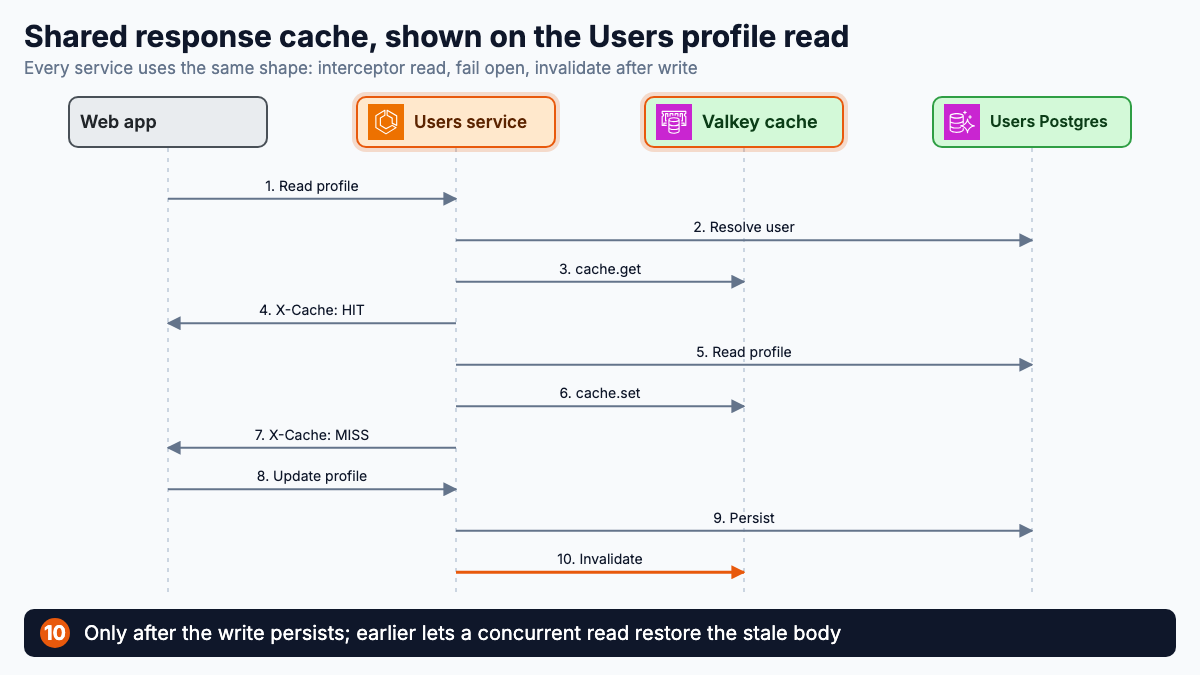
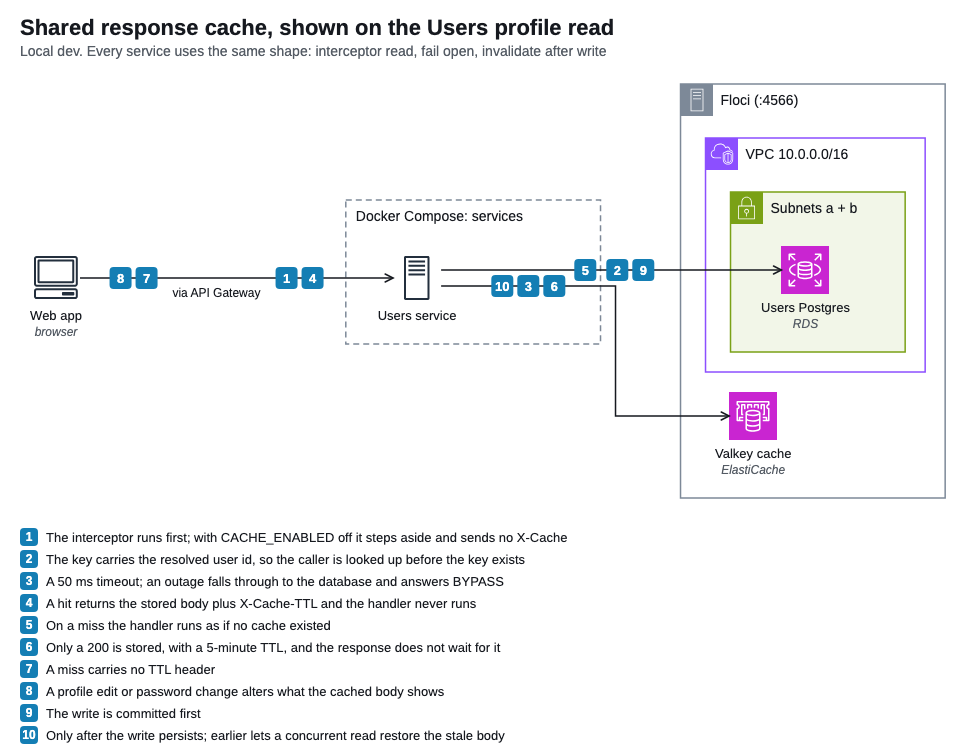
docs(orders): restyle shopping flow diagrams in the AWS reference style
Plan: docs/superpowers/plans/2026-10-07-aws-style-diagrams.md

diff --git a/diagrams/src/data/flows/checkout-address-geocoding-proxy.ts b/diagrams/src/data/flows/checkout-address-geocoding-proxy.ts
@@ -1,26 +1,44 @@
-import type { FlowData } from "../../schema";
+import type { z } from "zod";
+import type { AwsDiagramData } from "../../aws/schema";
 
-export const checkoutAddressGeocodingProxy: FlowData = {
+// CONTRACT: drawn as it runs in local dev: the web nginx, OpenObserve and Users in Docker Compose,
+// API Gateway on Floci, Geoapify on the internet. Replies reuse the request edges. Sources:
+// apps/web/nginx.conf, docker-compose.yml (web logging driver), apps/web/src/app/core/api/geocode-api.ts.
+export const checkoutAddressGeocodingProxy: z.input<typeof AwsDiagramData> = {
   title: "Street autocomplete through a same-origin proxy",
-  subtitle: "The Geoapify key lives in nginx; the browser never sees it or sends a token there",
-  actors: [
-    { id: "web", label: "Web app", kind: "external" },
-    { id: "nginx", label: "Web nginx", kind: "edge" },
-    { id: "geoapify", label: "Geoapify", kind: "external" },
-    { id: "o2", label: "OpenObserve", kind: "data" },
-    { id: "gateway", label: "API Gateway", kind: "edge", aws: "api-gateway" },
-    { id: "users", label: "Users service", kind: "compute", aws: "ecs" },
+  subtitle: "Local dev. The Geoapify key lives in nginx; the browser never sees it or sends a token there",
+  direction: "RIGHT",
+  groups: [
+    { id: "compose-web", kind: "generic", label: "Docker Compose: web" },
+    { id: "compose-o2", kind: "generic", label: "Docker Compose: observability" },
+    { id: "floci", kind: "local-floci", label: "Floci (:4566)" },
+    { id: "compose", kind: "generic", label: "Docker Compose: services" },
+  ],
+  nodes: [
+    { id: "web", label: "Web app", sublabel: "browser", icon: "client" },
+    { id: "nginx", label: "Web nginx", icon: "server", group: "compose-web" },
+    { id: "geoapify", label: "Geoapify", icon: "internet" },
+    { id: "o2", label: "OpenObserve", icon: "server", group: "compose-o2" },
+    { id: "gateway", label: "API Gateway", sublabel: "JWT authorizer", icon: "api-gateway", group: "floci" },
+    { id: "users", label: "Users service", icon: "server", group: "compose" },
+  ],
+  edges: [
+    { id: "web-nginx", from: "web", to: "nginx", label: "same-origin" },
+    { id: "nginx-geoapify", from: "nginx", to: "geoapify", label: "+ API key" },
+    { id: "nginx-o2", from: "nginx", to: "o2", label: "access log via fluentd", async: true },
+    { id: "nginx-gateway", from: "nginx", to: "gateway", label: "API path" },
+    { id: "gateway-users", from: "gateway", to: "users" },
   ],
   steps: [
-    { from: "web", to: "nginx", label: "Street query", caption: "After a 300 ms debounce and 3+ characters, a same-origin call with no bearer token" },
-    { from: "nginx", to: "web", label: "503 disabled", caption: "If the key is unset, nginx answers 503 itself rather than burn free-tier quota" },
-    { from: "nginx", to: "geoapify", label: "Autocomplete", caption: "nginx appends the key and strips Authorization and Cookie before leaving the host" },
-    { from: "geoapify", to: "nginx", label: "Suggestions", caption: "OpenStreetMap streets; Santo Domingo results carry no house numbers" },
-    { from: "nginx", to: "o2", label: "Access log", caption: "The only logged location, so the free-tier call count is a web-geocode query", async: true },
-    { from: "nginx", to: "web", label: "Suggestions", caption: "Entries without a street are dropped; any failure degrades to an empty list" },
-    { from: "web", to: "nginx", label: "Save address", caption: "The buyer picks a street, types the house number and saves" },
-    { from: "nginx", to: "gateway", label: "Profile update", caption: "The same nginx proxies the API path to the gateway, where the JWT authorizer runs" },
-    { from: "gateway", to: "users", label: "Update profile", caption: "Users stores the address on the buyer's profile" },
-    { from: "users", to: "web", label: "Profile", caption: "The returned profile replaces the session user and re-renders the address card" },
+    { edges: ["web-nginx"], caption: "After a 300 ms debounce and 3+ characters, a same-origin call with no bearer token" },
+    { edges: ["web-nginx"], caption: "If the key is unset, nginx answers 503 itself rather than burn free-tier quota" },
+    { edges: ["nginx-geoapify"], caption: "nginx appends the key and strips Authorization and Cookie before leaving the host" },
+    { edges: ["nginx-geoapify"], caption: "OpenStreetMap streets; Santo Domingo results carry no house numbers" },
+    { edges: ["nginx-o2"], caption: "The only logged location, so the free-tier call count is a web-geocode query" },
+    { edges: ["web-nginx"], caption: "Entries without a street are dropped; any failure degrades to an empty list" },
+    { edges: ["web-nginx"], caption: "The buyer picks a street, types the house number and saves" },
+    { edges: ["nginx-gateway"], caption: "The same nginx proxies the API path to the gateway, where the JWT authorizer runs" },
+    { edges: ["gateway-users"], caption: "Users stores the address on the buyer's profile" },
+    { edges: ["gateway-users", "nginx-gateway", "web-nginx"], caption: "The returned profile replaces the session user and re-renders the address card" },
   ],
 };

diff --git a/diagrams/src/data/flows/orders-catalogue-cart.ts b/diagrams/src/data/flows/orders-catalogue-cart.ts
@@ -1,25 +1,43 @@
-import type { FlowData } from "../../schema";
+import type { z } from "zod";
+import type { AwsDiagramData } from "../../aws/schema";
 
-export const ordersCatalogueCart: FlowData = {
+// CONTRACT: drawn as it runs in local dev: Orders and Users in Docker Compose, ElastiCache on Floci
+// outside the VPC (no subnet group), the Orders DB (RDS MySQL) in module.networking's subnets.
+// Sources: services/orders/src/Orders.Api/Endpoints/{Cart,Product}Endpoints.cs,
+// services/orders/src/Orders.Infrastructure/{Carts,Caching}, infra/modules/{networking,redis}.
+export const ordersCatalogueCart: z.input<typeof AwsDiagramData> = {
   title: "Browse the catalogue and edit the cart",
-  subtitle: "Orders owns the cart and every figure; the web app renders what it is sent",
-  actors: [
-    { id: "web", label: "Web app", kind: "external" },
-    { id: "orders", label: "Orders service", kind: "compute", aws: "ecs" },
-    { id: "cache", label: "Response cache", kind: "data", aws: "elasticache" },
-    { id: "users", label: "Users service", kind: "compute", aws: "ecs" },
-    { id: "db", label: "Orders DB", kind: "data", aws: "aurora" },
+  subtitle: "Local dev. Orders owns the cart and every figure; the web app renders what it is sent",
+  direction: "RIGHT",
+  groups: [
+    { id: "compose", kind: "generic", label: "Docker Compose: services" },
+    { id: "floci", kind: "local-floci", label: "Floci (:4566)" },
+    { id: "vpc", kind: "vpc", label: "VPC 10.0.0.0/16", parent: "floci" },
+    { id: "subnets", kind: "public-subnet", label: "Subnets a + b", parent: "vpc" },
+  ],
+  nodes: [
+    { id: "web", label: "Web app", sublabel: "browser", icon: "client" },
+    { id: "orders", label: "Orders service", icon: "server", group: "compose" },
+    { id: "users", label: "Users service", icon: "server", group: "compose" },
+    { id: "cache", label: "Response cache", sublabel: "ElastiCache", icon: "elasticache", group: "floci" },
+    { id: "db", label: "Orders DB", sublabel: "RDS MySQL", icon: "rds", group: "subnets" },
+  ],
+  edges: [
+    { id: "web-orders", from: "web", to: "orders", label: "via API Gateway" },
+    { id: "orders-users", from: "orders", to: "users", label: "gRPC" },
+    { id: "orders-cache", from: "orders", to: "cache" },
+    { id: "orders-db", from: "orders", to: "db" },
   ],
   steps: [
-    { from: "web", to: "orders", label: "List products", caption: "The home page loads the catalogue once; category chips and search filter in the browser" },
-    { from: "orders", to: "cache", label: "Catalogue key", caption: "One key shared by every buyer, 10-minute TTL; a miss goes on to the DB" },
-    { from: "web", to: "orders", label: "Read cart", caption: "The drawer reads the cart on open; a buyer with no cart gets an empty one, never a 404" },
-    { from: "orders", to: "users", label: "Resolve user id", caption: "Per-user keys need the user id: the identity cache first, else Users over gRPC" },
-    { from: "orders", to: "cache", label: "Cart key", caption: "A per-user key with a 60-second TTL; a hit returns the stored body without the handler" },
-    { from: "orders", to: "db", label: "Price lines", caption: "On a miss one catalogue query prices every line and flags unavailable ones" },
-    { from: "web", to: "orders", label: "Replace cart", caption: "Stepper clicks debounce per product and queue, so a burst becomes one full replacement" },
-    { from: "orders", to: "db", label: "Sync lines", caption: "One transaction; no live lines deletes the cart; a lost create race retries once" },
-    { from: "orders", to: "cache", label: "Invalidate", caption: "After the commit, the caller's whole per-user key index is swept" },
-    { from: "orders", to: "web", label: "Priced cart", caption: "Totals count available lines only; canCheckout gates the drawer's Continue button" },
+    { edges: ["web-orders"], caption: "The home page loads the catalogue once; category chips and search filter in the browser" },
+    { edges: ["orders-cache"], caption: "One key shared by every buyer, 10-minute TTL; a miss goes on to the DB" },
+    { edges: ["web-orders"], caption: "The drawer reads the cart on open; a buyer with no cart gets an empty one, never a 404" },
+    { edges: ["orders-users"], caption: "Per-user keys need the user id: the identity cache first, else Users over gRPC" },
+    { edges: ["orders-cache"], caption: "A per-user key with a 60-second TTL; a hit returns the stored body without the handler" },
+    { edges: ["orders-db"], caption: "On a miss one catalogue query prices every line and flags unavailable ones" },
+    { edges: ["web-orders"], caption: "Stepper clicks debounce per product and queue, so a burst becomes one full replacement" },
+    { edges: ["orders-db"], caption: "One transaction; no live lines deletes the cart; a lost create race retries once" },
+    { edges: ["orders-cache"], caption: "After the commit, the caller's whole per-user key index is swept" },
+    { edges: ["web-orders"], caption: "Totals count available lines only; canCheckout gates the drawer's Continue button" },
   ],
 };

diff --git a/diagrams/src/data/flows/response-cache.ts b/diagrams/src/data/flows/response-cache.ts
@@ -1,24 +1,40 @@
-import type { FlowData } from "../../schema";
+import type { z } from "zod";
+import type { AwsDiagramData } from "../../aws/schema";
 
-export const responseCache: FlowData = {
+// CONTRACT: drawn as it runs in local dev: Users in Docker Compose, Valkey (ElastiCache) on Floci
+// outside the VPC (no subnet group), Users Postgres (RDS) in module.networking's subnets. Replies
+// reuse the request edge. Sources: services/users/src/shared/cache, infra/modules/{networking,redis}.
+export const responseCache: z.input<typeof AwsDiagramData> = {
   title: "Shared response cache, shown on the Users profile read",
-  subtitle: "Every service uses the same shape: interceptor read, fail open, invalidate after write",
-  actors: [
-    { id: "web", label: "Web app", kind: "external" },
-    { id: "users", label: "Users service", kind: "compute", aws: "ecs" },
-    { id: "cache", label: "Valkey cache", kind: "data", aws: "elasticache" },
-    { id: "db", label: "Users Postgres", kind: "data", aws: "aurora" },
+  subtitle: "Local dev. Every service uses the same shape: interceptor read, fail open, invalidate after write",
+  direction: "RIGHT",
+  groups: [
+    { id: "compose", kind: "generic", label: "Docker Compose: services" },
+    { id: "floci", kind: "local-floci", label: "Floci (:4566)" },
+    { id: "vpc", kind: "vpc", label: "VPC 10.0.0.0/16", parent: "floci" },
+    { id: "subnets", kind: "public-subnet", label: "Subnets a + b", parent: "vpc" },
+  ],
+  nodes: [
+    { id: "web", label: "Web app", sublabel: "browser", icon: "client" },
+    { id: "users", label: "Users service", icon: "server", group: "compose" },
+    { id: "cache", label: "Valkey cache", sublabel: "ElastiCache", icon: "elasticache", group: "floci" },
+    { id: "db", label: "Users Postgres", sublabel: "RDS", icon: "rds", group: "subnets" },
+  ],
+  edges: [
+    { id: "web-users", from: "web", to: "users", label: "via API Gateway" },
+    { id: "users-db", from: "users", to: "db" },
+    { id: "users-cache", from: "users", to: "cache" },
   ],
   steps: [
-    { from: "web", to: "users", label: "Read profile", caption: "The interceptor runs first; with CACHE_ENABLED off it steps aside and sends no X-Cache" },
-    { from: "users", to: "db", label: "Resolve user", caption: "The key carries the resolved user id, so the caller is looked up before the key exists" },
-    { from: "users", to: "cache", label: "cache.get", caption: "A 50 ms timeout; an outage falls through to the database and answers BYPASS" },
-    { from: "users", to: "web", label: "X-Cache: HIT", caption: "A hit returns the stored body plus X-Cache-TTL and the handler never runs" },
-    { from: "users", to: "db", label: "Read profile", caption: "On a miss the handler runs as if no cache existed" },
-    { from: "users", to: "cache", label: "cache.set", caption: "Only a 200 is stored, with a 5-minute TTL, and the response does not wait for it" },
-    { from: "users", to: "web", label: "X-Cache: MISS", caption: "A miss carries no TTL header" },
-    { from: "web", to: "users", label: "Update profile", caption: "A profile edit or password change alters what the cached body shows" },
-    { from: "users", to: "db", label: "Persist", caption: "The write is committed first" },
-    { from: "users", to: "cache", label: "Invalidate", caption: "Only after the write persists; earlier lets a concurrent read restore the stale body" },
+    { edges: ["web-users"], caption: "The interceptor runs first; with CACHE_ENABLED off it steps aside and sends no X-Cache" },
+    { edges: ["users-db"], caption: "The key carries the resolved user id, so the caller is looked up before the key exists" },
+    { edges: ["users-cache"], caption: "A 50 ms timeout; an outage falls through to the database and answers BYPASS" },
+    { edges: ["web-users"], caption: "A hit returns the stored body plus X-Cache-TTL and the handler never runs" },
+    { edges: ["users-db"], caption: "On a miss the handler runs as if no cache existed" },
+    { edges: ["users-cache"], caption: "Only a 200 is stored, with a 5-minute TTL, and the response does not wait for it" },
+    { edges: ["web-users"], caption: "A miss carries no TTL header" },
+    { edges: ["web-users"], caption: "A profile edit or password change alters what the cached body shows" },
+    { edges: ["users-db"], caption: "The write is committed first" },
+    { edges: ["users-cache"], caption: "Only after the write persists; earlier lets a concurrent read restore the stale body" },
   ],
 };

diff --git a/diagrams/src/data/flows-shopping.catalog.ts b/diagrams/src/data/flows-shopping.catalog.ts
@@ -7,7 +7,7 @@ export const shoppingFlowEntries: CatalogEntry[] = [
   {
     id: "orders-catalogue-cart",
     title: ordersCatalogueCart.title,
-    primitive: "flow",
+    primitive: "aws",
     output: "docs/domains/orders/specs/diagrams/orders-catalogue-cart",
     watches: [
       "services/orders/src/Orders.Api/Endpoints/CartEndpoints.cs",
@@ -24,7 +24,7 @@ export const shoppingFlowEntries: CatalogEntry[] = [
   {
     id: "response-cache",
     title: responseCache.title,
-    primitive: "flow",
+    primitive: "aws",
     output: "docs/shared/patterns/diagrams/response-cache",
     watches: [
       "services/*/src/shared/cache/**",
@@ -37,7 +37,7 @@ export const shoppingFlowEntries: CatalogEntry[] = [
   {
     id: "checkout-address-geocoding-proxy",
     title: checkoutAddressGeocodingProxy.title,
-    primitive: "flow",
+    primitive: "aws",
     output: "docs/domains/orders/specs/diagrams/checkout-address-geocoding-proxy",
     watches: [
       "apps/web/nginx.conf",
